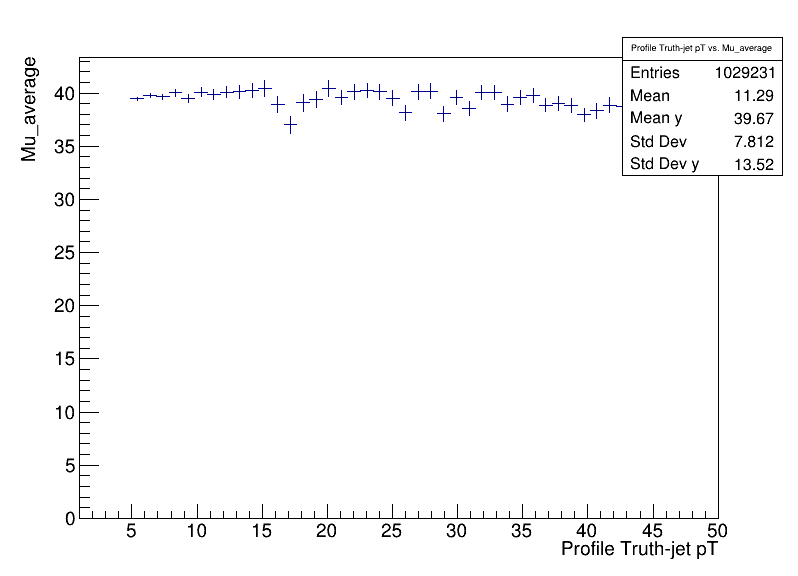
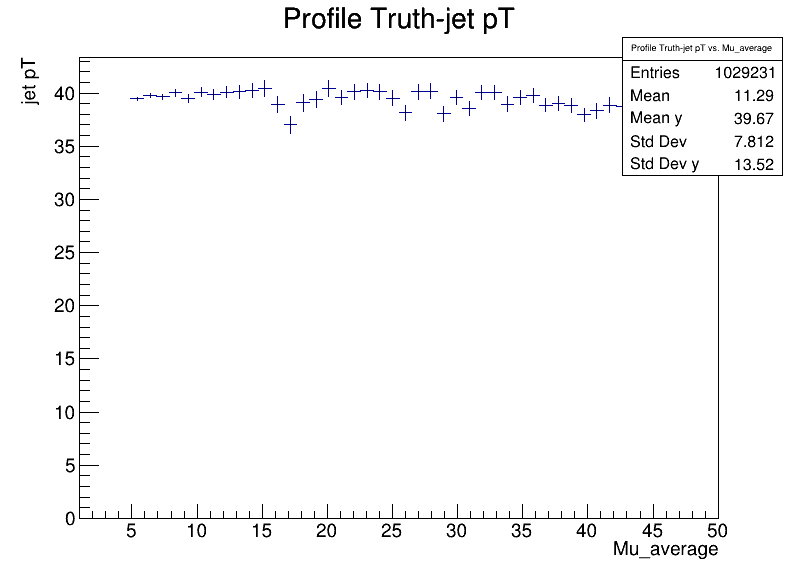
change in some images

Changed region(s): [[0.3609, 0.0, 0.6617, 0.0625], [0.6917, 0.9375, 0.9023, 0.9688], [0.0301, 0.0938, 0.0602, 0.2812]]

diff --git a/Jets/Jets_Ex1_macro.cpp b/Jets/Jets_Ex1_macro.cpp
@@ -123,7 +123,7 @@ void Jets_Ex1_macro(){
   TH2F *hist_Tjetpt_npv = new TH2F("Truthjet pT vs. Mu_average","Truthjet pT ;Mu_average; jet pT",50,1,50, 20, 0, 200);
   TProfile *prof_Tjetpt_npv = new TProfile("Profile Truth-jet pT vs. Mu_average",";Profile Truth-jet pT;Mu_average; jet pT",50,1,50, 0, 200);
   TH2F *hist_Tjetpt_mu = new TH2F("Truthjet pT vs. Mu_average","Truthjet pT ;Mu_average; jet pT",50,1,50, 20, 0, 200);
-  TProfile *prof_Tjetpt_mu = new TProfile("Profile Truth-jet pT vs. Mu_average",";Profile Truth-jet pT;Mu_average; jet pT",50,1,50, 0, 200);
+  TProfile *prof_Tjetpt_mu = new TProfile("Profile Truth-jet pT vs. Mu_average","Profile Truth-jet pT;Mu_average; jet pT",50,1,50, 0, 200);
     
   //int nentries, nbytes, i;
   //nentries = (Int_t)tree->GetEntries();
@@ -188,7 +188,9 @@ void Jets_Ex1_macro(){
   //## Exercise 3 ##
     
   vector<float> *reco_R4_jvf;
+  vector<float> *truth_R4_jvf;
   tree->SetBranchAddress("RecoJets_R4_jvf", &reco_R4_jvf);
+  tree->SetBranchAddress("TruthJets_R4_jvf", &truth_R4_jvf);
     
   // No cut  
   TH1F *hist_leadreco_jvf = new TH1F("Lead Reco-jet JVF","Leading-R jet JVF; JVF;Events",20,-1,1);
@@ -204,9 +206,9 @@ void Jets_Ex1_macro(){
           if(reco_R4_pt->at(0)>100000.){hist_leadreco100_jvf->Fill(reco_R4_jvf->at(0), evtw);}
       }
       
-      if(reco_R4_pt->size()!=0 && reco_R4_pt->at(0)>20000.){
-          hist_leadtruth_jvf->Fill(reco_R4_jvf->at(0), evtw);
-          if(reco_R4_pt->at(0)>100000.){hist_leadtruth100_jvf->Fill(reco_R4_jvf->at(0), evtw);}
+      if(truth_R4_pt->size()!=0 && truth_R4_pt->at(0)>20000.){
+          hist_leadtruth_jvf->Fill(truth_R4_jvf->at(0), evtw);
+          if(truth_R4_pt->at(0)>100000.){hist_leadtruth100_jvf->Fill(truth_R4_jvf->at(0), evtw);}
       }
   }
     
@@ -232,9 +234,9 @@ void Jets_Ex1_macro(){
           //}
       }
       
-      if(reco_R4_pt->size()!=0 && reco_R4_pt->at(0)>20000. && reco_R4_jvf->at(0)>0.5 ){
-          hist_Cleadtruth_jvf->Fill(reco_R4_jvf->at(0), evtw);
-          if(reco_R4_pt->at(0)>100000.){hist_Cleadtruth100_jvf->Fill(reco_R4_jvf->at(0), evtw);}
+      if(truth_R4_pt->size()!=0 && truth_R4_pt->at(0)>20000. && truth_R4_jvf->at(0)>0.5 ){
+          hist_Cleadtruth_jvf->Fill(truth_R4_jvf->at(0), evtw);
+          if(truth_R4_pt->at(0)>100000.){hist_Cleadtruth100_jvf->Fill(truth_R4_jvf->at(0), evtw);}
           
           //for(int j=0; j<truth_R4_pt->size(); j++){
             //  prof_CTjetpt_npv->Fill(truth_R4_pt->at(j)/1000.,npv,evtw);
@@ -276,60 +278,5 @@ void Jets_Ex1_macro(){
   hist_Cleadtruth100_jvf->DrawNormalized("same");
   canvas2->Print("Graphs/CleadT_jvf.png");
   canvas2->Draw();
-    
-  //## Exercise 4 ##
-    
-  vector<float> *reco_R4_eta;
-  vector<float> *reco_R4_phi;
-  vector<float> *reco_R4_m;
-  tree->SetBranchAddress("RecoJets_R4_eta", &reco_R4_eta);
-  tree->SetBranchAddress("RecoJets_R4_phi", &reco_R4_phi);
-  tree->SetBranchAddress("RecoJets_R4_m", &reco_R4_m);
-    
-  vector<float> *truth_R4_eta;
-  vector<float> *truth_R4_phi;
-  vector<float> *truth_R4_m;
-  tree->SetBranchAddress("TruthJets_R4_eta", &truth_R4_eta);
-  tree->SetBranchAddress("TruthJets_R4_phi", &truth_R4_phi);
-  tree->SetBranchAddress("TruthJets_R4_m", &truth_R4_m);
-    
-  TH1F *hist_DR_reco_truth = new TH1F("Delta R reco","Delta R; #Delta R; Events",20,0,2);
-  TH1F *hist_DR_Creco_truth = new TH1F("Delta R reco","Delta R (|JVF|>0.5); #Delta R; Events",20,0,2);
-
-  for (i = 0; i < nentries; i++){
-      nbytes = tree->GetEntry(i);
-
-      if(truth_R4_pt->size()!=0 && truth_R4_pt->at(0)>20000.){
-          TLorentzVector truthJet;
-    truthJet.SetPtEtaPhiM(truth_R4_pt->at(0),truth_R4_eta->at(0),truth_R4_phi->at(0),truth_R4_m->at(0));
-          if(reco_R4_pt->size()!=0 && fabs(reco_R4_jvf->at(0))>0.5){      
-              TLorentzVector recoJet;
-    recoJet.SetPtEtaPhiM(reco_R4_pt->at(0),reco_R4_eta->at(0),reco_R4_phi->at(0),reco_R4_m->at(0));
-        //Plot the Delta R
-        hist_DR_reco_truth->Fill(truthJet.DeltaR(recoJet),evtw);}
-      }
-      
-      //Aplying Cut
-      if(truth_R4_pt->size()!=0 && truth_R4_pt->at(0)>20000. && reco_R4_jvf->at(0)>0.5){
-          TLorentzVector truthJet;
-    truthJet.SetPtEtaPhiM(truth_R4_pt->at(0),truth_R4_eta->at(0),truth_R4_phi->at(0),truth_R4_m->at(0));
-          if(reco_R4_pt->size()!=0 && fabs(reco_R4_jvf->at(0))>0.5){      
-              TLorentzVector recoJet;
-    recoJet.SetPtEtaPhiM(reco_R4_pt->at(0),reco_R4_eta->at(0),reco_R4_phi->at(0),reco_R4_m->at(0));
-        //Plot the Delta R
-        hist_DR_Creco_truth->Fill(truthJet.DeltaR(recoJet),evtw);}
-      }
-  }
-
-  std::cout << "Done 4!" << std::endl;
-    
-  hist_DR_reco_truth->Scale(1/hist_DR_reco_truth->Integral());
-  hist_DR_reco_truth->DrawNormalized("");
-  canvas2->Print("Graphs/DR_RT.png");
-    
-  hist_DR_Creco_truth->Scale(1/hist_DR_reco_truth->Integral());
-  hist_DR_Creco_truth->DrawNormalized("");
-  canvas2->Print("Graphs/DR_RT_Cut.png");
-  canvas2->Draw();
-    
+ 
 }

diff --git a/Jets/Jets_Ex4_macro.cpp b/Jets/Jets_Ex4_macro.cpp
@@ -1,0 +1,82 @@
+#include<iostream>
+#include<string>
+#include<stdio.h>
+
+void Jets_Ex4_macro(){
+  //## Exercise 4 ##
+    
+  TFile *file = TFile::Open("../Tracks_Clusters/Tracks_Clusters.root");
+  TTree *tree = (TTree*) file->Get("JetRecoTree");
+  tree->Print();
+    
+  float evtw = -1;
+  vector<float> *reco_R4_pt = {};
+  vector<float> *truth_R4_pt = {};
+  tree->SetBranchAddress("EventWeight", &evtw);
+  tree->SetBranchAddress("RecoJets_R4_pt", &reco_R4_pt);
+  tree->SetBranchAddress("TruthJets_R4_pt", &truth_R4_pt);
+    
+  vector<float> *reco_R4_jvf = {};
+  tree->SetBranchAddress("RecoJets_R4_jvf", &reco_R4_jvf);
+  vector<float> *truth_R4_jvf = {};
+  tree->SetBranchAddress("TruthJets_R4_jvf", &truth_R4_jvf);
+
+  TCanvas *canvas = new TCanvas("Canvas","Canvas",800,600);
+    
+  vector<float> *reco_R4_eta = {};
+  vector<float> *reco_R4_phi = {};
+  vector<float> *reco_R4_m = {};
+  tree->SetBranchAddress("RecoJets_R4_eta", &reco_R4_eta);
+  tree->SetBranchAddress("RecoJets_R4_phi", &reco_R4_phi);
+  tree->SetBranchAddress("RecoJets_R4_m", &reco_R4_m);
+    
+  vector<float> *truth_R4_eta = {};
+  vector<float> *truth_R4_phi = {};
+  vector<float> *truth_R4_m = {};
+  tree->SetBranchAddress("TruthJets_R4_eta", &truth_R4_eta);
+  tree->SetBranchAddress("TruthJets_R4_phi", &truth_R4_phi);
+  tree->SetBranchAddress("TruthJets_R4_m", &truth_R4_m);
+    
+  TH1F *hist_DR_reco_truth = new TH1F("Delta R reco","Delta R; #Delta R; Events",20,0,2);
+  TH1F *hist_DR_Creco_truth = new TH1F("Delta R reco","Delta R (|JVF|>0.5); #Delta R; Events",20,0,2);
+
+  int nentries, nbytes, i;
+  nentries = (Int_t)tree->GetEntries();
+    
+  for (i = 0; i < nentries; i++){
+      nbytes = tree->GetEntry(i);
+
+      if(truth_R4_pt->size()!=0 && truth_R4_pt->at(0)>20000.){
+          TLorentzVector truthJet;
+    truthJet.SetPtEtaPhiM(truth_R4_pt->at(0),truth_R4_eta->at(0),truth_R4_phi->at(0),truth_R4_m->at(0)); 
+          
+          if(reco_R4_pt->size()!=0 && fabs(reco_R4_jvf->at(0))>0.5){
+              TLorentzVector recoJet;
+    recoJet.SetPtEtaPhiM(reco_R4_pt->at(0),reco_R4_eta->at(0),reco_R4_phi->at(0),reco_R4_m->at(0));       
+        //Plot the Delta R
+        hist_DR_reco_truth->Fill(truthJet.DeltaR(recoJet),evtw);}
+      }
+      
+     if(truth_R4_pt->size()!=0 && truth_R4_pt->at(0)>20000. && fabs(truth_R4_jvf->at(0))>0.5){
+          TLorentzVector truthJet;
+    truthJet.SetPtEtaPhiM(truth_R4_pt->at(0),truth_R4_eta->at(0),truth_R4_phi->at(0),truth_R4_m->at(0)); 
+          
+          if(reco_R4_pt->size()!=0 && fabs(reco_R4_jvf->at(0))>0.5){
+              TLorentzVector recoJet;
+    recoJet.SetPtEtaPhiM(reco_R4_pt->at(0),reco_R4_eta->at(0),reco_R4_phi->at(0),reco_R4_m->at(0));       
+        //Plot the Delta R
+        hist_DR_reco_truth->Fill(truthJet.DeltaR(recoJet),evtw);}
+      }
+  }
+
+  std::cout << "Done 4!" << std::endl;
+    
+  hist_DR_reco_truth->Scale(1/hist_DR_reco_truth->Integral());
+  hist_DR_reco_truth->DrawNormalized("");
+  canvas->Print("Graphs/DR_RT.png");
+    
+  hist_DR_Creco_truth->Scale(1/hist_DR_reco_truth->Integral());
+  hist_DR_Creco_truth->DrawNormalized("");
+  canvas->Print("Graphs/DR_RT_Cut.png");
+  canvas->Draw();
+}
